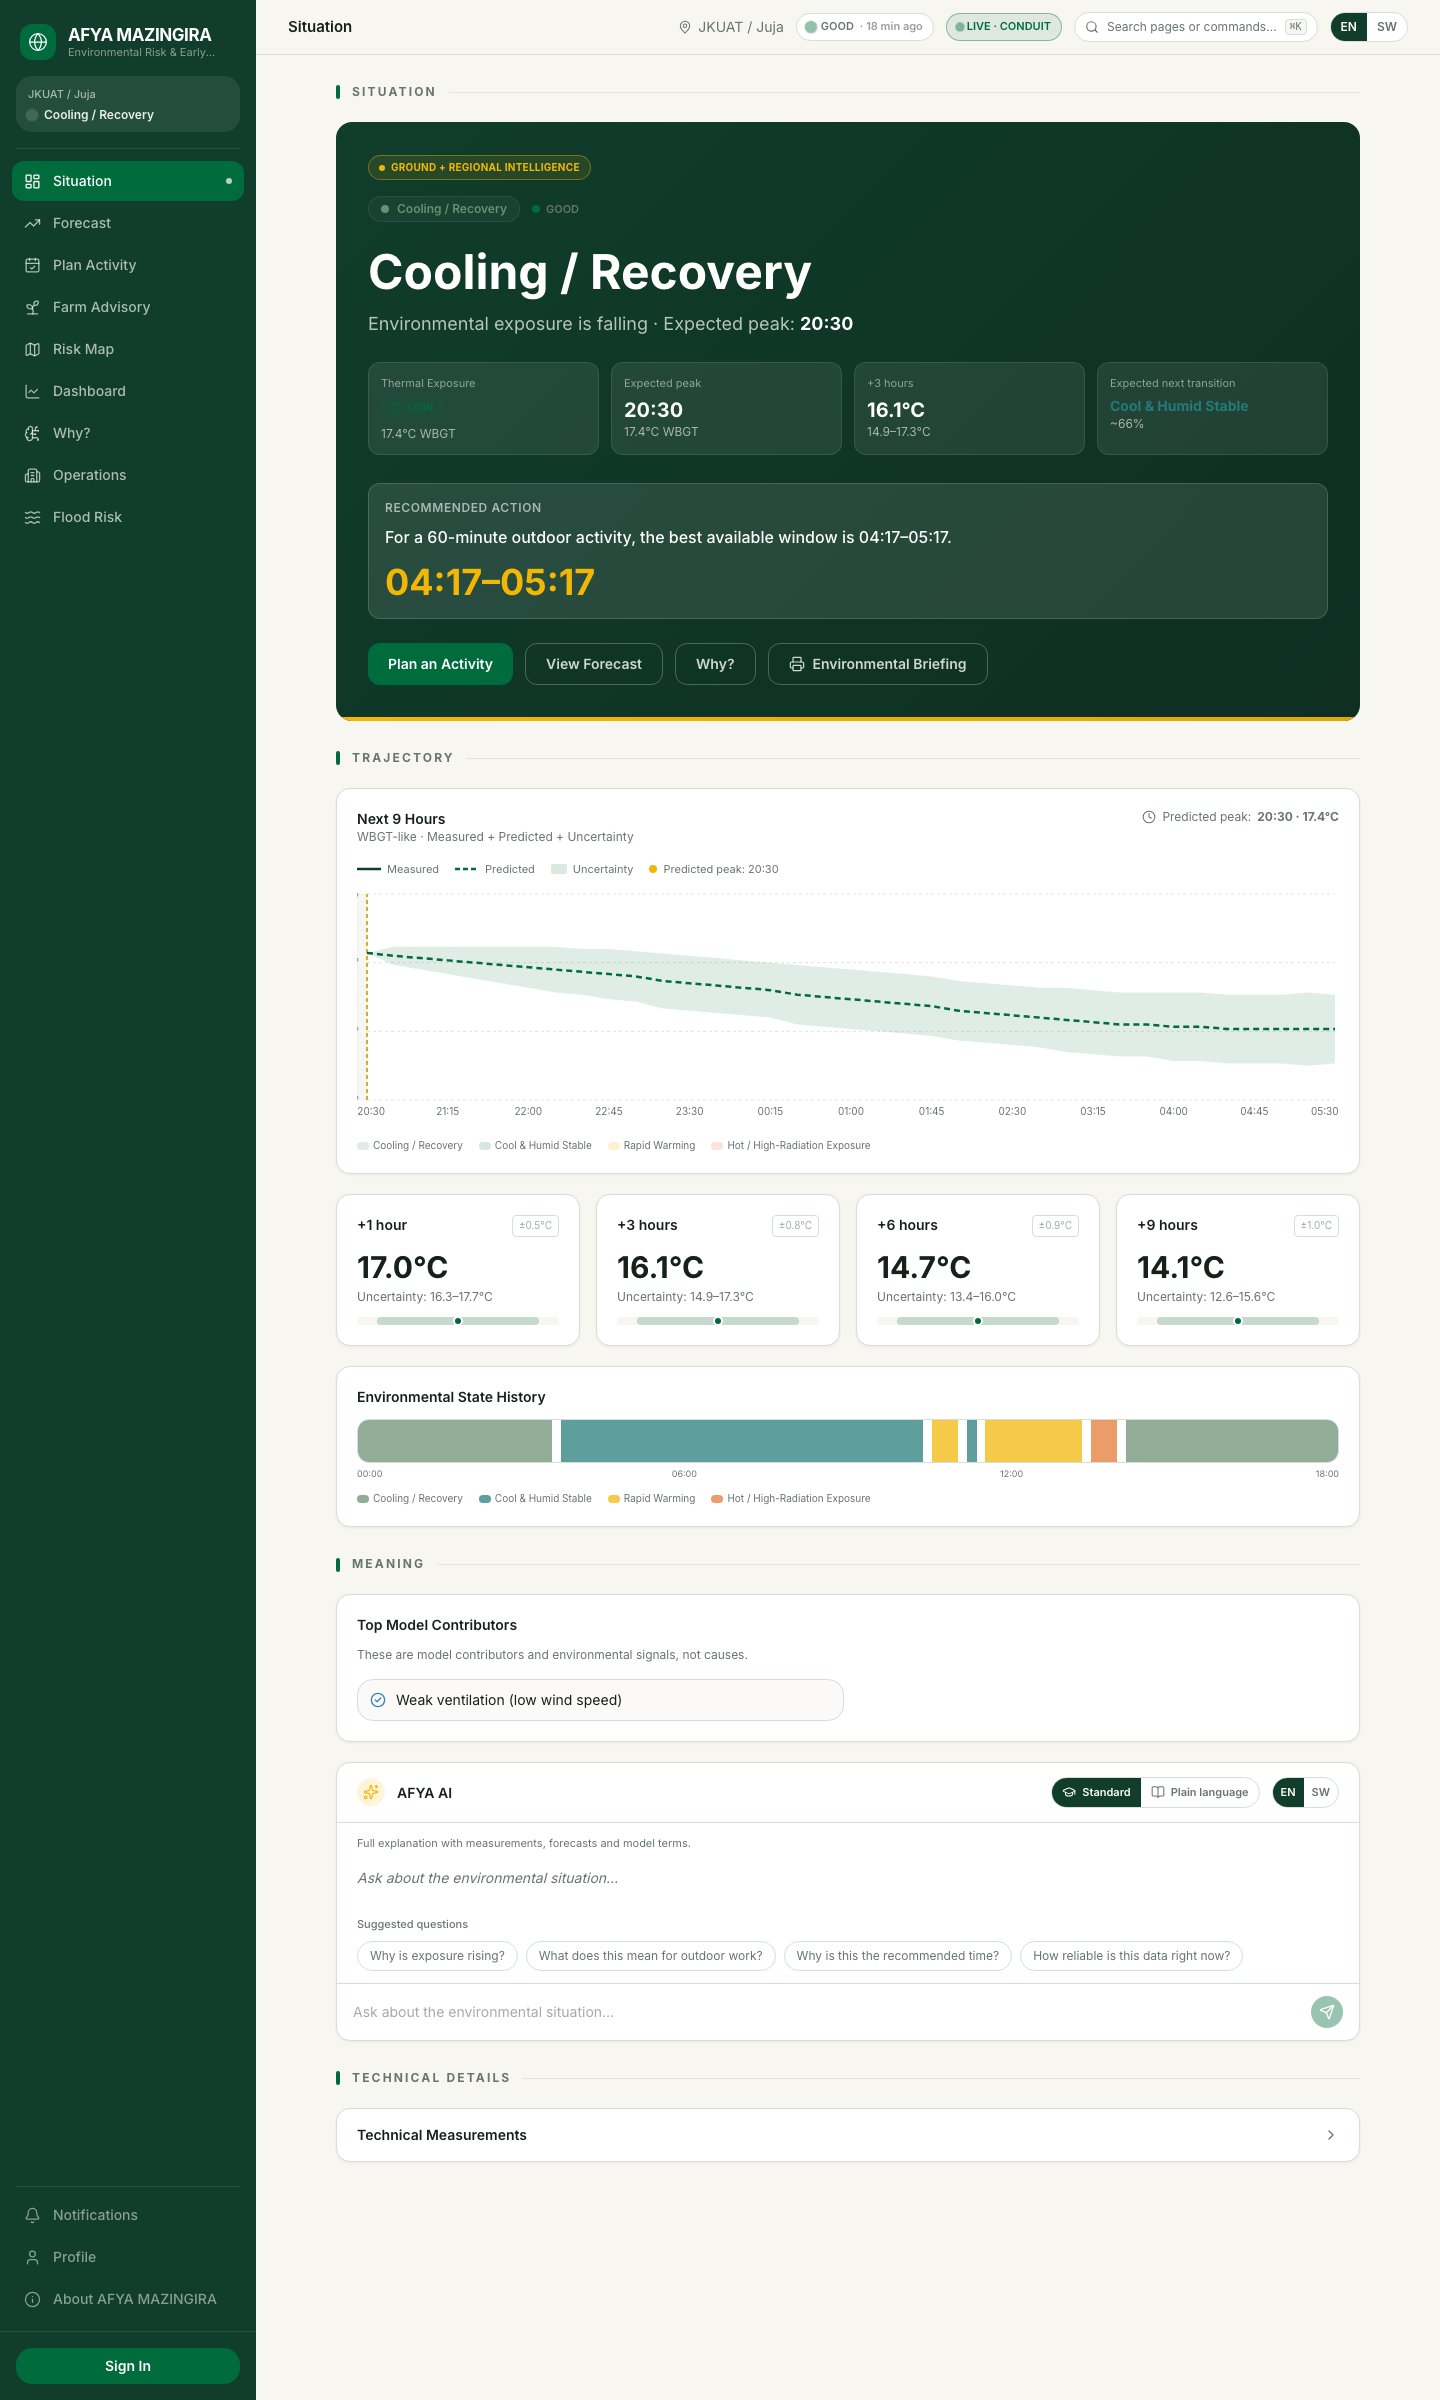
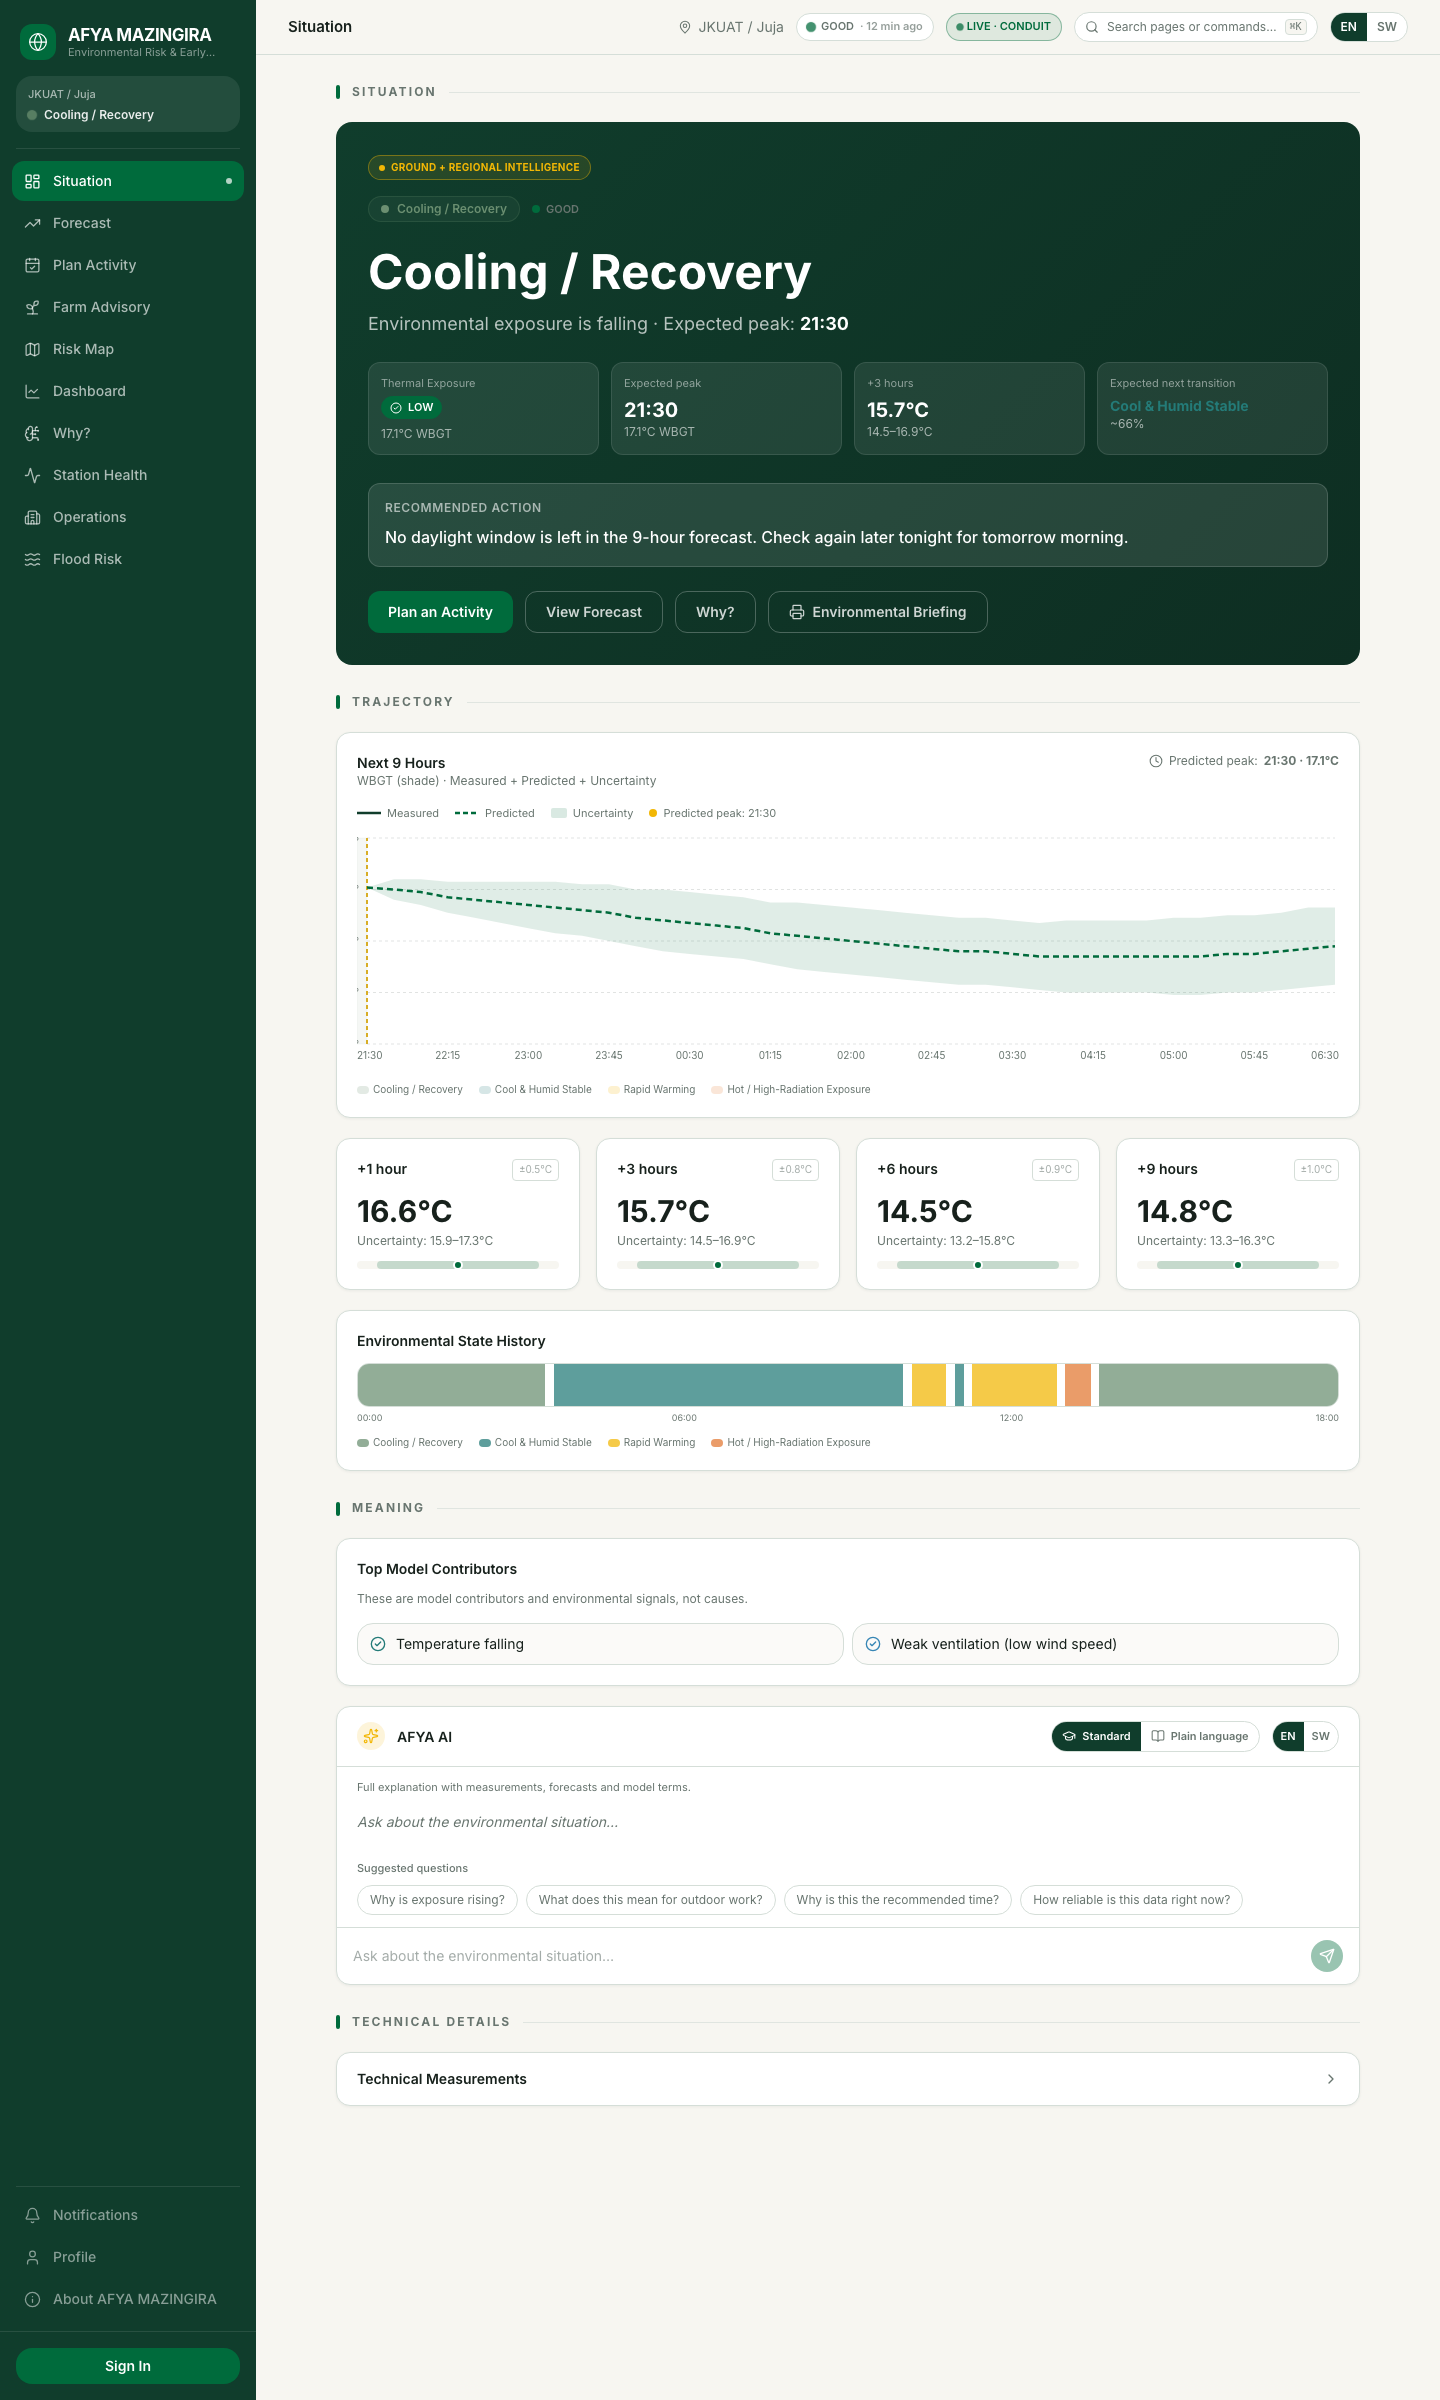
Name the team and the AI tool used, and drop the map layer that was not land surface temperature
The README now lists the three team members and their roles, the licence
names all three, and the AI usage section states which tool was used and how.
The map's "Land Surface Temp" layer repainted the WBGT colours under another
name; land surface temperature is never computed, so the layer is gone. New
screenshots of the Situation page and the Risk Map on OpenStreetMap.

diff --git a/src/app/(app)/map/page.tsx b/src/app/(app)/map/page.tsx
@@ -13,8 +13,7 @@ import { StateChip } from "@/components/ui/StateChip";
 import { RiskChip } from "@/components/ui/RiskChip";
 import {
   X, ChevronRight, ChevronLeft, Play, Pause, Info,
-  Layers, Radio, Thermometer, Droplets, Leaf, Mountain,
-} from "lucide-react";
+  Layers, Radio, Thermometer, Droplets, Leaf, } from "lucide-react";
 import type { CountyFeature, SatelliteAcquisition } from "@/lib/afya/map-data";
 import type { MapLayerKey } from "@/components/map/CountyLeafletMap";
 import { cn } from "@/lib/utils";
@@ -35,7 +34,6 @@ const LAYER_META: { key: MapLayerKey; icon: React.ReactNode; label_en: string; l
   { key: "thermal",    icon: <Thermometer className="w-4 h-4" />, label_en: "Thermal Context",       label_sw: "Muktadha wa Joto" },
   { key: "rain",       icon: <Droplets className="w-4 h-4" />,    label_en: "Rain Context",          label_sw: "Muktadha wa Mvua" },
   { key: "vegetation", icon: <Leaf className="w-4 h-4" />,        label_en: "Vegetation Context",    label_sw: "Muktadha wa Mimea" },
-  { key: "lst",        icon: <Mountain className="w-4 h-4" />,    label_en: "Land Surface Temp",     label_sw: "Joto la Uso wa Ardhi" },
 ];
 
 const TIMES = ["09:00", "12:00", "15:00", "18:00"];

diff --git a/README.md b/README.md
@@ -96,7 +96,7 @@ The last two columns score what people act on: how often the forecast puts the h
 | **Forecast** | Measured WBGT with the 15-minute forecast and its band, shaded by state |
 | **Plan Activity** | Best-time search for an activity, duration and time window, with reasons, an alternative and saved plans |
 | **Farm Advisory** | Irrigation depth in mm and litres per m², spray and field-work windows, crop heat stress and planting outlook for 7 crops and 4 growth stages |
-| **Risk Map** | 11 county boundaries with outlook, heat, rain, vegetation layers and a time slider; station-backed versus regional marked on each |
+| **Risk Map** | Leaflet on OpenStreetMap: 11 county boundaries with outlook, heat, rain and vegetation layers and a time slider; station-backed versus regional marked on each |
 | **Dashboard** | Live climate variables, a climate history explorer over any date range, and historical replay: step through a past day with the future hidden, then reveal what the station recorded |
 | **Station Health** | Sensor-group status for the last 24 hours, the daily health score since June 2025, firmware and thermometer audits, the rules, and findings to report to JHUB |
 | **Why?** | Data quality flags, the state timeline, the fitted model table with test-month scores, and the regional context |
@@ -200,13 +200,7 @@ Methods: Stull (2011), *J. Appl. Meteor. Climatol.* 50, 2267-2269 (wet bulb); IS
 
 ## 11. AI usage
 
-_To be completed by Vincent: which AI tools were used to build the project and for what._ Draft from what the repository shows:
-
-- Anthropic's Claude was used as a coding assistant from 18 to 21 September 2026.
-- The changes of 21 September (fitted models, WBGT, data handling, tests, this README) were made with AI assistance.
-- Inside the product, language models only reword results the code has already computed, and their replies are checked against those results.
-
-Both team members can explain any part of the code.
+The AI tool used in this project is Anthropic's Claude: Claude Code, and Claude in Cowork during planning. It was used for debugging and explaining code errors, for writing code, tests and documentation, and for research and data analysis. The team reviewed and ran every change and can explain each part of the solution.
 
 ## 12. Screenshots / demo
 
@@ -218,12 +212,19 @@ Demo video: _link to be added_
 
 ![Station Health](docs/screenshots/station-health.png)
 
+![Risk Map on OpenStreetMap](docs/screenshots/risk-map.png)
+
 ![Operations](docs/screenshots/operations.png)
 
 ## 13. Team members
 
-- **Vincent Kongo** ([@vinnienovah](https://github.com/vinnienovah)), _role_
-- **George Kamundia** ([@GKamundia](https://github.com/GKamundia)), _role_
+| Member | Role |
+|---|---|
+| **Vincent Kongo** ([@vinnienovah](https://github.com/vinnienovah)) | Data scientist and environmental specialist |
+| **Phillip Muchemi** | Data scientist and GIS specialist |
+| **George Kamundia** ([@GKamundia](https://github.com/GKamundia)) | Computer scientist, machine learning and AI specialist |
+
+Between them the team covers the environmental science behind the heat and farm advice, the GIS behind the regional map and county boundaries, and the machine learning behind the forecast, the environmental states and the station health checks.
 
 ## 14. Future development
 
